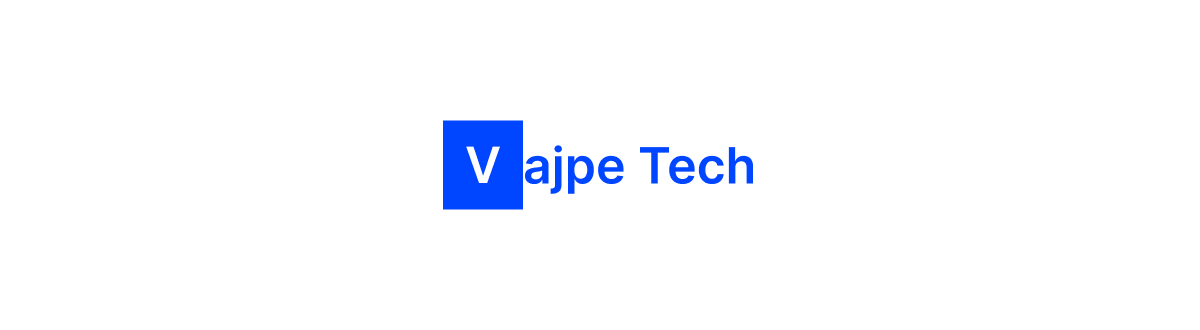
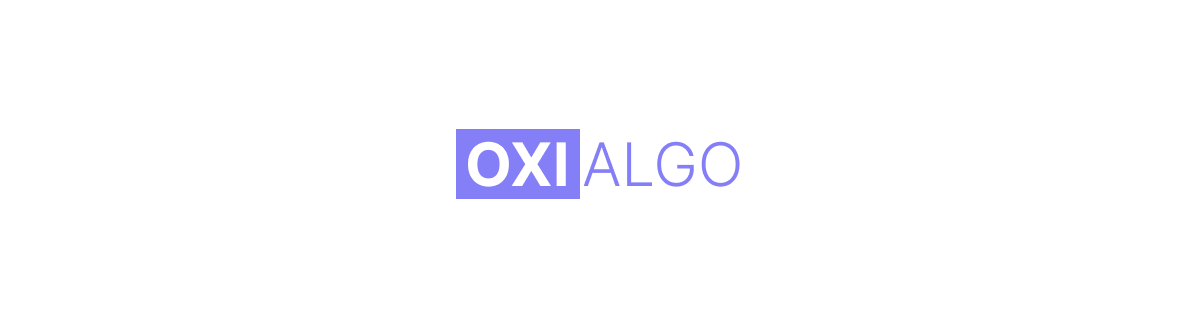
Changed branding

Changed region(s): [[0.37, 0.3636, 0.6475, 0.6364]]

diff --git a/src/components/react/GoogleForm.tsx b/src/components/react/GoogleForm.tsx
@@ -8,7 +8,7 @@ function GoogleForm({ title, variant = 'primary' }: { title: string, variant: 'p
   const [loading, setLoading] = useState(true)
 
   const buttonStyles = {
-    primary: 'bg-gradient-to-r from-blue-600 to-blue-700 hover:from-blue-700 hover:to-blue-800 shadow-lg',
+    primary: 'bg-gradient-to-r from-theme-blue to-theme-blue hover:from-theme-blue hover:to-theme-blue shadow-lg',
     gold: 'bg-gradient-to-r from-amber-400 to-amber-500 hover:from-amber-500 hover:to-amber-600 shadow-lg',
     platinum: 'bg-gradient-to-r from-gray-400 to-gray-500 hover:from-gray-500 hover:to-gray-600 shadow-lg'
   }

diff --git a/tailwind.config.js b/tailwind.config.js
@@ -12,7 +12,7 @@ export default {
         accent: 'var(--aw-color-accent)',
         default: 'var(--aw-color-text-default)',
         muted: 'var(--aw-color-text-muted)',
-        'theme-blue': '#0045FF',
+        'theme-blue': '#8781ff',
         'muted-theme-blue': 'rgba(48, 53, 255, 0.15)',
       },
       fontFamily: {

diff --git a/astro.config.ts b/astro.config.ts
@@ -25,7 +25,7 @@ const whenExternalScripts = (items: (() => AstroIntegration) | (() => AstroInteg
 
 export default defineConfig({
   output: 'static',
-  site: 'https://vajpe.com',
+  site: 'https://oxialgo.com',
   redirects: {
     '/2024/10/18/why-working-with-asyncio-can-be-tricky-in-python/': {
       status: 302,

diff --git a/notes.md b/notes.md
@@ -1,0 +1,140 @@
+🏠 Landing Page Structure & Copy
+✅ 1. Hero Section (Above the Fold)
+Headline:
+
+🚀 Power Your Trading Ideas with Reliable Automation
+
+Subheadline:
+
+We build, test, and deploy your F&O strategies — so you can focus on trading while we handle the tech.
+
+CTA Buttons:
+
+🔹 “Automate My Strategy” → Scrolls to retail section
+
+🔹 “I Manage Large Capital” → Scrolls to HNI section
+
+✅ 2. What We Offer (Quick Overview)
+Use 3 cards or horizontal bullets:
+
+⚙ Custom Strategy Development 🔒 Infrastructure & Hosting 📊 Reporting & Monitoring
+Turn your idea into a working algo We deploy and host it securely Get daily logs, MTM reports, alerts
+
+✅ 3. For Retail Traders 👨💻
+Title:
+
+Built for F&O Retail Traders Who Want an Edge
+
+Body Copy:
+
+If you trade manually or use Excel-based setups, we help you go fully automated. You bring the idea, we build, test, and deploy it for you.
+No advice. No returns promised. Just execution-grade tech.
+
+What You Get:
+
+Strategy coded in Python (based on your logic)
+
+Backtesting support
+
+Deployment to your broker (Zerodha, Dhan, Fyers, etc.)
+
+Live logs, trade records, and support
+
+Pricing:
+
+Development: ₹10,000–₹15,000 per strategy
+
+Hosting: From ₹1,000/month
+
+CTA Button:
+👉 “Get Started With My Strategy”
+
+✅ 4. For HNIs, RAs & Serious Capital Traders 🧑💼
+Title:
+
+End-to-End Algo Infrastructure for Large-Volume Traders
+
+Body Copy:
+
+Whether you manage your own capital or work with clients, we provide the backend to run your strategies efficiently, securely, and with full transparency.
+
+Offer Includes:
+
+Custom strategy development
+
+Infrastructure setup and management
+
+Dedicated resource to coordinate with you
+
+Priority deployment and debugging
+
+Daily/weekly reports, logs, and dashboards
+
+White-label option available
+
+CTA Button:
+👉 “Book a 1:1 Call With Us”
+
+✅ 5. How It Works
+Use a 4-step graphic or timeline:
+
+Share Your Idea → We discuss your logic and objectives
+
+We Build & Backtest → Python-coded, tested with data
+
+You Approve & Deploy → We connect it to your broker
+
+Monitor & Scale → Get logs, MTM reports, and support
+
+✅ 6. Compliance Note (Very Important)
+Title:
+
+📌 Important Disclaimer
+
+We are a technology service. We do not offer trading advice, signals, or guaranteed returns. You bring your own strategy — we help you bring it to life.
+
+This builds trust and legal protection.
+
+✅ 7. Testimonials / Credibility (Optional)
+Use placeholders if not ready yet:
+
+“Helped me automate a 3-leg options strategy I was running manually for months. Setup was smooth and support was quick.”
+— Trader from Mumbai
+
+“As a full-time trader, infra matters. Their system works well and I’ve scaled comfortably.”
+— N. S., BankNifty Trader
+
+✅ 8. Call to Action Section (Final Push)
+Headline:
+
+Ready to Automate Your Trading Strategy?
+
+Buttons:
+
+🚀 “Start as a Retail Trader” → Google Form / WhatsApp
+
+📞 “Book HNI Consultation” → Calendly or Typeform
+
+✅ 9. Footer
+About
+
+Contact
+
+WhatsApp link
+
+Privacy Policy
+
+LinkedIn/X handles
+
+Want Help Building This?
+I can:
+
+Generate this as raw HTML (responsive, clean)
+
+Create a simple React/Next.js component
+
+Draft the Google Form / Calendly questions
+
+Design a basic Figma mockup
+
+Let me know which you'd like.
